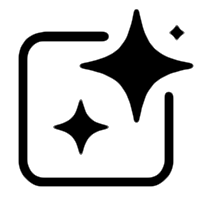
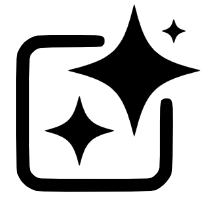
feat: allow ai template refining

diff --git a/ionic/src/pages/settings/settings.ts b/ionic/src/pages/settings/settings.ts
@@ -289,6 +289,41 @@ export class SettingsPage implements OnInit, OnDestroy {
     }
   }
 
+  private async showAiPrompt(template?: OutputProfileModel): Promise<{ template: OutputBlockModel[], name: string } | null> {
+    if (this.aiPromptModal != null) this.aiPromptModal.dismiss();
+
+    return new Promise(async (resolve) => {
+      // from the setings remove the outputprofiles property and pass it as json
+      const settings = JSON.parse(JSON.stringify(this.settings));
+      delete settings.outputProfiles;
+      this.aiPromptModal = this.modalCtrl.create(AiPromptPopoverPage, {
+        settings: settings,
+        template: template
+      }, {
+        cssClass: 'btp-big-modal',
+        enableBackdropDismiss: false,
+        showBackdrop: true
+      });
+
+      this.aiPromptModal.onDidDismiss((result) => {
+        resolve(result);
+      });
+      this.aiPromptModal.present();
+    });
+  }
+
+  async onRefineOutputTemplateClick() {
+    const currentTemplate = this.settings.outputProfiles[this.selectedOutputProfile];
+    const result = await this.showAiPrompt(currentTemplate);
+
+    if (result && result.template) {
+      this.settings.outputProfiles[this.selectedOutputProfile].outputBlocks = result.template;
+      if (result.name) {
+        this.settings.outputProfiles[this.selectedOutputProfile].name = result.name;
+      }
+    }
+  }
+
   async onNewOutputTemplateClick(useAi = false) {
     if (this.settings.outputProfiles.length >= this.licenseProvider.getNOMaxTemplates()) {
       await this.alertCtrl.create({
@@ -304,27 +339,16 @@ export class SettingsPage implements OnInit, OnDestroy {
 
     let newTemplateName = null;
     if (useAi) {
-      return new Promise(async (resolve) => {
-        if (this.aiPromptModal != null) this.aiPromptModal.dismiss();
-        this.aiPromptModal = this.modalCtrl.create(AiPromptPopoverPage, {}, {
-          cssClass: 'btp-big-modal',
-          enableBackdropDismiss: false,
-          showBackdrop: true
-        });
-
-        this.aiPromptModal.onDidDismiss((result) => {
-          if (result && result.template) {
-            console.log(result);
-            let outputTemplate: OutputProfileModel = {
-              name: result.name,
-              version: null,
-              outputBlocks: result.template,
-            };
-            this.addOutputTemplate(outputTemplate)
-          }
-        });
-        this.aiPromptModal.present();
-      });
+      const result = await this.showAiPrompt();
+      if (result && result.template) {
+        let outputTemplate: OutputProfileModel = {
+          name: result.name,
+          version: null,
+          outputBlocks: result.template,
+        };
+        this.addOutputTemplate(outputTemplate);
+      }
+      return;
     }
 
     newTemplateName = await this.utils.text('newOutputTemplateName', {

diff --git a/ionic/src/pages/settings/settings.html b/ionic/src/pages/settings/settings.html
@@ -129,7 +129,7 @@
         </button>
 
         <button ion-button clear small class="btn-new-output-template" (click)="onNewOutputTemplateClick(true)" color="dark">
-          <img src="assets/settings/ai-light.png" alt="ai" style="max-height: 75%; margin-right: 5px;">
+          <img src="assets/settings/ai-light.png?v=2" alt="ai" style="max-height: 75%; margin-right: 5px;">
           {{ 'Generate New Template' | translate }}
         </button>
 
@@ -147,19 +147,20 @@
             {{ outputProfile.name }}</option>
         </select>
 
-        <button ion-button small clear icon-start color="dark" class="btn-output-template-action" (click)="onEditOutputProfileNameClick()">
+        <button ion-button small clear icon-start color="dark" class="btn-output-template-action" (click)="onRefineOutputTemplateClick()" title="{{ 'Refine' | translate }}">
+          <img src="assets/settings/ai-light.png?v=2" alt="ai" style="max-height: 75%">
+        </button>
+
+        <button ion-button small clear icon-start color="dark" class="btn-output-template-action" (click)="onEditOutputProfileNameClick()" title="{{ 'outputTemplateRename' | translate }}">
           <ion-icon name="create"></ion-icon>
-          {{ 'outputTemplateRename' | translate }}
         </button>
 
-        <button ion-button small clear icon-start color="dark" class="btn-output-template-action" (click)="onExportOutputTemplateClick()">
+        <button ion-button small clear icon-start color="dark" class="btn-output-template-action" (click)="onExportOutputTemplateClick()" title="{{ 'outputTemplateExport' | translate }}">
           <ion-icon name="ios-share"></ion-icon>
-          {{ 'outputTemplateExport' | translate }}
         </button>
 
-        <button ion-button small clear icon-start color="dark" class="btn-output-template-action" [disabled]="this.settings.outputProfiles.length <= 1" (click)="onDeleteOutputTemplateClick()">
+        <button ion-button small clear icon-start color="dark" class="btn-output-template-action" [disabled]="this.settings.outputProfiles.length <= 1" (click)="onDeleteOutputTemplateClick()" title="{{ 'outputTemplateDelete' | translate }}">
           <ion-icon name="trash"></ion-icon>
-          {{ 'outputTemplateDelete' | translate }}
         </button>
       </ion-item>
 

diff --git a/ionic/src/pages/settings/ai-prompt-popover/ai-prompt-popover.ts b/ionic/src/pages/settings/ai-prompt-popover/ai-prompt-popover.ts
@@ -52,9 +52,9 @@ export class AiPromptPopoverPage {
   public isLoading = false;
   public title: string;
   public showHints = false;
-  private aiDraftSequence: string = `[
-  { "name": "BARCODE" },
-]`;
+  private currentSettings: any;
+  private currentTemplate: any;
+  private aiDraftSequence: string;
   private thinkingSteps: ThinkingStep[] = [
     { text: "Analyzing the problem...", delay: 1500 },
     { text: "Combining requirements....", delay: 3000 },
@@ -76,7 +76,17 @@ export class AiPromptPopoverPage {
     let render = this.markdownService.renderer;
     render.link = function (href, title, text) { return text };
 
-    this.addSystemMessage("How can I help you create a template today?");
+    this.currentSettings = this.navParams.get('settings');
+    this.currentTemplate = this.navParams.get('template');
+    this.aiDraftSequence = this.currentTemplate ?
+      JSON.stringify(this.currentTemplate.outputBlocks) :
+      `[{ "name": "BARCODE" }]`;
+
+    const initialMessage = this.currentTemplate ?
+      `I'm looking at the "${this.currentTemplate.name}" template. How would you like to improve it?` :
+      "How can I help you create a template today?";
+
+    this.addSystemMessage(initialMessage);
   }
 
   ngOnInit() {
@@ -238,6 +248,7 @@ export class AiPromptPopoverPage {
           "prompt": userPrompt,
           "history": this.messages.filter(m => m.isUser).map(m => m.text),
           "draftSequence": this.aiDraftSequence,
+          "settings": this.currentSettings,
         })
       };
 
